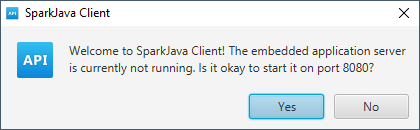
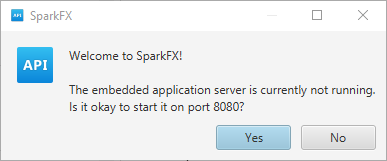
Change string wrapping on dialog

Changed region(s): [[0.0, 0.0, 1.0, 1.0], [0.8062, 0.0615, 0.8372, 0.1231]]

diff --git a/src/main/java/com/dustinredmond/sparkfx/ui/UI.java b/src/main/java/com/dustinredmond/sparkfx/ui/UI.java
@@ -62,7 +62,8 @@ public class UI extends Application {
                     UI.APP_TITLE));
             return; // let other threads from Main finish
         }
-        String prompt = "Welcome to " + APP_TITLE + "! The embedded application server is currently not running. " +
+        String prompt = "Welcome to " + APP_TITLE + "!\n\n" +
+                "The embedded application server is currently not running.\n" +
                 "Is it okay to start it on port " + ServerContext.getPort() + "?";
         if (CustomAlert.showConfirmation(prompt)) {
             port(ServerContext.getPort());
